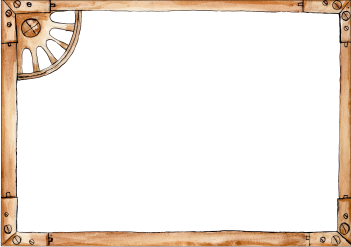
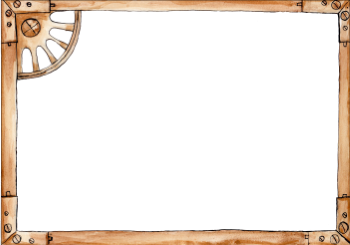
minimap frame and exit from map

diff --git a/src/scenes/map.scene.ts b/src/scenes/map.scene.ts
@@ -78,6 +78,7 @@ export class MapScene extends Phaser.Scene {
         // });
 
         this.displayMinimap();
+        this.displayControls();
 
         this.displayLocations();
 
@@ -111,25 +112,34 @@ export class MapScene extends Phaser.Scene {
     }
 
     displayMinimap() {
-        var size = new Phaser.Geom.Point(250, 250);
-        this._minimap = this.cameras.add(this.cameras.main.width - size.x - 20, 20, size.x, size.y).setZoom(0.2);
+        const size = new Phaser.Geom.Point(350, 245);
+        const OFFSET = 20;
+        var position = new Phaser.Geom.Point(this.cameras.main.width - size.x - OFFSET, OFFSET);
+
+        this._minimap = this.cameras.add(position.x, position.y, size.x, size.y, false, 'minimap').setZoom(0.2);
     }
 
     displayControls() {
-        this._uiCamera = this.cameras.add(0, 0, this._map.width, this._map.height);
-        this._uiCamera.ignore(this._map);
-        //this._pinpoints.forEach(pinpoint => this._uiCamera.ignore(pinpoint));
+        var position = new Phaser.Geom.Point(this._minimap.x, this._minimap.y);
+        var size = new Phaser.Geom.Point(this._minimap.width, this._minimap.height);
 
-        // quit battle button (visible only in skirmish mode)
-        if (this._options.worldMap) {
-            var exit = TextualService.createTextButton(this, 'Exit', 80, 20, Styles.battle.backButton, a => {
-                SceneService.backToMenu(this);
-            });
-            if (this._minimap) {
-                this._minimap.ignore(exit);
-            }
-            this.cameras.main.ignore(exit);
-        }    
+        var cam = this.cameras.add(0, 0, this._map.width, this._map.height, false, 'static');
+        cam.transparent = true;
+        cam.ignore(this._map);
+
+        // add objects that will be displayed on the static camera
+
+        var exit = TextualService.createTextButton(this, 'Exit', 80, 20, Styles.battle.backButton, a => {
+            SceneService.backToMenu(this);
+        }).setName('exit');
+
+        var frame = this.add.sprite(position.x, position.y, 'minimap')
+            .setOrigin(0).setName('minimapFrame');
+
+        // ignore static objects on other cameras (main and minimap)
+
+        this._minimap.ignore([exit, frame]);
+        this.cameras.main.ignore([exit, frame]);
     }
 
     update(time, delta) {

diff --git a/src/models/pinpoint.ts b/src/models/pinpoint.ts
@@ -62,9 +62,15 @@ export class Pinpoint {
             this._scene.cameras.systems.canvas.width / 2 - width / 2, 
             this._scene.cameras.systems.canvas.height / 2 - height / 2, width, height);
         this._infoCamera.transparent = true;
-        this._infoCamera.ignore(this._scene.children.getByName('map'));
 
-        // this._infoCamera.ignore(this._scene.children.getByName('map'));
+        // ignore object from other cameras (map on the main, controls on the static)
+
+        const map = this._scene.children.getByName('map'),
+            minimapFrame = this._scene.children.getByName('minimapFrame'),
+            exit = this._scene.children.getByName('exit');
+
+        this._infoCamera.ignore([map, minimapFrame, exit]);
+
         this._infoObjects = [];
 
         var backgroundPaper = this._scene.add.sprite(0, 40, 'paper');
@@ -72,7 +78,9 @@ export class Pinpoint {
         backgroundPaper.setOrigin(0, 0);
         backgroundPaper.setAlpha(0);
 
+        // ignore object on other cameras:
         this._scene.cameras.main.ignore(backgroundPaper);
+        this._scene.cameras.getCamera('static').ignore(backgroundPaper);
 
         this._scene.add.tween({
             targets: [backgroundPaper],
@@ -134,7 +142,10 @@ export class Pinpoint {
         actionTitle.setOrigin(0, 0);
 
         this._infoObjects.push(title, desc, terrain, back, backTitle, action, actionTitle);
-        this._scene.cameras.main.ignore([title, desc, terrain, back, backTitle, action, actionTitle]);
+
+        // ignore objects on other cameras
+        this._scene.cameras.main.ignore(this._infoObjects);
+        this._scene.cameras.getCamera('static').ignore(this._infoObjects);
     }
 
     private closeLocationInfo() : Promise<any> {

diff --git a/src/scenes/loading.scene.ts b/src/scenes/loading.scene.ts
@@ -134,6 +134,8 @@ export class LoadingScene extends Phaser.Scene {
 
                 // the big map and small locations assets
                 this.load.image('map', 'assets/screens/world-map-locations.png');
+                this.load.image('minimap', 'assets/common/map-frame-small.png');
+
                 this.load.spritesheet('locations', 'assets/common/locations-colors-soft.png', { frameWidth: 36, frameHeight: 36 });
                 this.load.spritesheet('location-buttons', 'assets/common/location-buttons.png', { frameWidth: 68, frameHeight: 46 });
                 this.load.image('party', 'assets/common/party-small.png');
